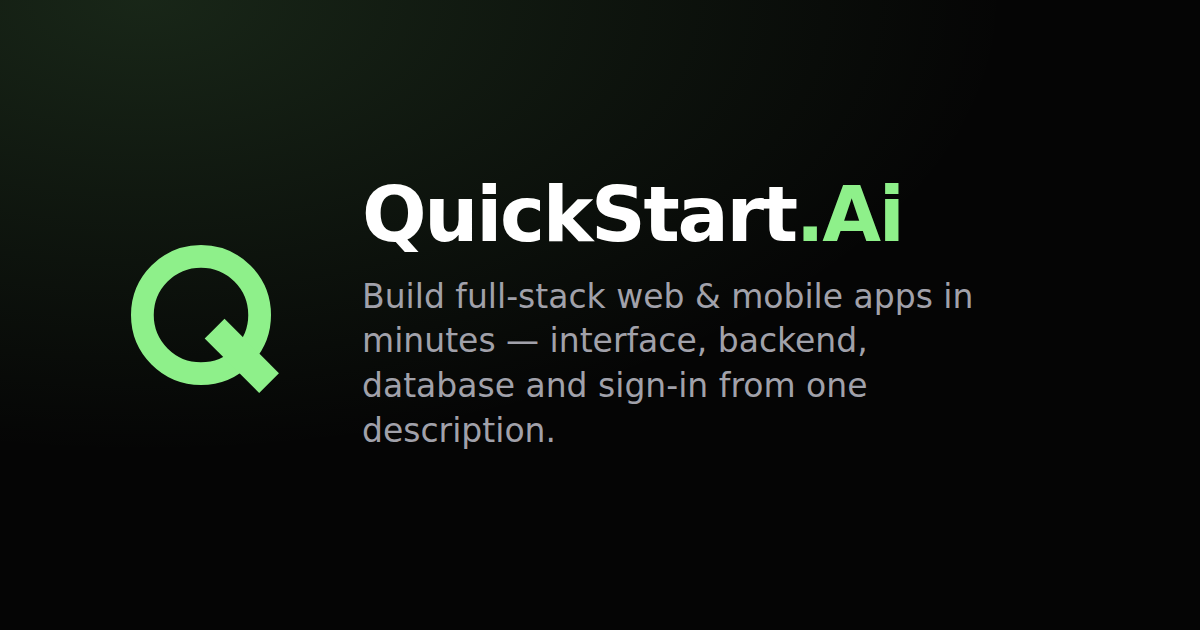
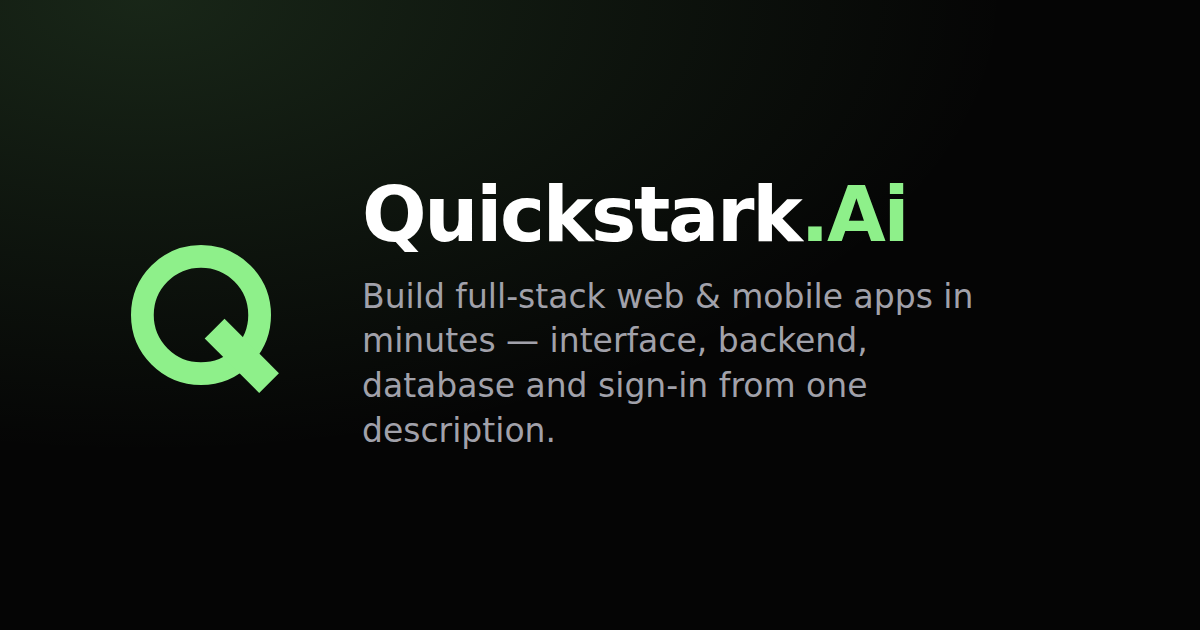
Rename the product to Quickstark.Ai
Every visible occurrence of the old name across the app, the marketing pages,
the metadata and the docs — the wordmark in the header, drawer, login modal and
dashboard nav, page titles, the FAQ and pricing copy, alt text and aria-labels,
the manifest, Open Graph and Twitter tags, the schema header and the README.

Two things deliberately left alone. The CSS class .wordmark-quickstart keeps its
name: it is a selector, not a word anyone reads, and renaming it would mean
editing the stylesheet. And the rename was done case-sensitively, so that class
and the domain strings could not be swept up by accident.

The publishing subdomain did change — .quickstart.ai to .quickstark.ai in the
plan table — since it carries the brand and is printed in the Free plan's
feature list. That is a domain that now has to exist.

The social preview image had the old name rendered into its pixels, so it was
regenerated from the same source rather than left to contradict the page it
previews.

Verified against the running server: the landing and pricing pages serve zero
occurrences of the old name, the title, og:title, og:site_name, application-name
and manifest all read Quickstark.Ai, and the wordmark renders in both places
that draw it.

Changed region(s): [[0.4933, 0.2714, 0.7708, 0.3921]]

diff --git a/src/app/page.tsx b/src/app/page.tsx
@@ -196,7 +196,7 @@ function formatPrice(value: number) {
 const PRICING_TIERS = [
   {
     name: "Free",
-    description: "A simple starting point to explore QuickStart.Ai and validate your first product ideas.",
+    description: "A simple starting point to explore Quickstark.Ai and validate your first product ideas.",
     monthlyPrice: PLANS.free.monthlyPriceUsd,
     ctaLabel: "Get Started",
     icon: Gift,
@@ -211,7 +211,7 @@ const PRICING_TIERS = [
     name: "Standard",
     description: "The most balanced plan for serious builders shipping polished web and mobile experiences.",
     monthlyPrice: PLANS.standard.monthlyPriceUsd,
-    ctaLabel: "Try QuickStart.Ai",
+    ctaLabel: "Try Quickstark.Ai",
     icon: Layout,
     highlight: true,
     features: [
@@ -248,9 +248,9 @@ const FAQS = [
       "A product that runs, not a mockup or a pile of screens to hand off. You get the pages people use, the database behind them, sign-in already wired up and real code underneath — live on a URL you can share the same day, and still yours to keep changing.",
   },
   {
-    question: "What is QuickStart.Ai and how does it work?",
+    question: "What is Quickstark.Ai and how does it work?",
     answer:
-      "Describe the product you want in plain language and QuickStart.Ai builds it — the screens people see, the backend behind them, the database underneath and the sign-in flow, ready to go live. Web and mobile come out of the same description.",
+      "Describe the product you want in plain language and Quickstark.Ai builds it — the screens people see, the backend behind them, the database underneath and the sign-in flow, ready to go live. Web and mobile come out of the same description.",
   },
   {
     question: "What can I build with it?",
@@ -258,9 +258,9 @@ const FAQS = [
       "Anything with a front end and something running behind it: customer-facing web and mobile apps, dashboards, marketplaces, booking and subscription products, internal tools. If it needs pages, accounts, data and payments, it is in range.",
   },
   {
-    question: "Do I need coding experience to use QuickStart.Ai?",
+    question: "Do I need coding experience to use Quickstark.Ai?",
     answer:
-      "No. You describe what you want in ordinary words and QuickStart.Ai does the building. What it writes underneath is real Next.js and React code, so if you bring in a developer later there is something familiar for them to pick up.",
+      "No. You describe what you want in ordinary words and Quickstark.Ai does the building. What it writes underneath is real Next.js and React code, so if you bring in a developer later there is something familiar for them to pick up.",
   },
   {
     question: "Where does my data live, and what does it connect to?",
@@ -307,7 +307,7 @@ const FOOTER_LINK_COLUMNS = [
 
 /* Six applications float around the hero — a restaurant landing page, two storefronts, a
    product page, a banking app and a food-ordering app — so the first thing a visitor sees
-   is the range of things QuickStart.Ai builds. Each entry is a screenshot of a real UI,
+   is the range of things Quickstark.Ai builds. Each entry is a screenshot of a real UI,
    rendered from the mockups in tools/hero-mockups (re-run
    `node tools/hero-mockups/render.mjs` after editing one).
 
@@ -717,9 +717,9 @@ export default function LandingPage() {
               the CTA are, and the always-present third column reserves the CTA's space so
               the nav does not jump sideways when the button mounts on scroll. */}
           <div className="page-shell h-20 grid grid-cols-[1fr_auto_1fr] items-center gap-4">
-            <a href="#" className="justify-self-start -ml-2 flex items-center gap-3 group focus:outline-none focus-visible:ring-2 focus-visible:ring-brandGreen/40 rounded-full px-2" aria-label="QuickStart.Ai Homepage">
+            <a href="#" className="justify-self-start -ml-2 flex items-center gap-3 group focus:outline-none focus-visible:ring-2 focus-visible:ring-brandGreen/40 rounded-full px-2" aria-label="Quickstark.Ai Homepage">
               <div className="w-10 h-10 relative overflow-hidden flex items-center justify-center"><Q3DCanvas scale={0.85} className="w-10 h-10 absolute pointer-events-none" /></div>
-              <span className="text-xl font-bold tracking-tight"><span className="wordmark-quickstart metal-shimmer">QuickStart</span><span className="wordmark-ai">.Ai</span></span>
+              <span className="text-xl font-bold tracking-tight"><span className="wordmark-quickstart metal-shimmer">Quickstark</span><span className="wordmark-ai">.Ai</span></span>
             </a>
             <nav className="hidden md:flex justify-self-center items-center gap-8 text-sm font-medium text-brandTextSec">
               <a href="#features" className="hover:text-white transition-colors duration-200">Features</a>
@@ -855,9 +855,9 @@ export default function LandingPage() {
         <section id="features" className="px-6 py-24">
           <div className="page-shell space-y-12">
             <Reveal className="mx-auto max-w-3xl text-center">
-              <p className="text-sm font-semibold uppercase tracking-[0.28em] text-brandGreen">What is QuickStart.Ai</p>
+              <p className="text-sm font-semibold uppercase tracking-[0.28em] text-brandGreen">What is Quickstark.Ai</p>
               <h2 className="mt-4 text-2xl md:text-3xl 2xl:text-4xl 3xl:text-5xl font-bold tracking-tight text-white">
-                What can QuickStart.Ai do for you?
+                What can Quickstark.Ai do for you?
               </h2>
               <p className="mt-5 text-base sm:text-lg leading-relaxed text-brandTextSec">
                 Instantly generate native mobile applications, progressive web apps, production APIs, schema-perfect databases, authentication architectures, AI agents, secure cloud storage, and fully automated deployment configurations using simple natural language.
@@ -937,7 +937,7 @@ export default function LandingPage() {
                   Choose the plan that fits your build velocity.
                 </h2>
                 <p className="mt-5 text-base sm:text-lg leading-relaxed text-brandTextSec">
-                  Dark, cinematic, and built to scale with the same QuickStart.Ai product experience you see above.
+                  Dark, cinematic, and built to scale with the same Quickstark.Ai product experience you see above.
                 </p>
               </div>
 
@@ -1078,7 +1078,7 @@ export default function LandingPage() {
                 Questions people ask before they build.
               </h2>
               <p className="mt-5 text-base sm:text-lg leading-relaxed text-brandTextSec">
-                What QuickStart.Ai builds for you, what it connects to, and what it costs — answered in plain words.
+                What Quickstark.Ai builds for you, what it connects to, and what it costs — answered in plain words.
               </p>
             </Reveal>
 
@@ -1139,7 +1139,7 @@ export default function LandingPage() {
             <div className="absolute left-1/2 top-1/2 h-full aspect-[1672/941] -translate-x-1/2 -translate-y-1/2">
               <Image
                 src="/page.png"
-                alt="Start building on QuickStart.Ai today — turn your ideas into fully functional apps, faster than ever."
+                alt="Start building on Quickstark.Ai today — turn your ideas into fully functional apps, faster than ever."
                 width={1672}
                 height={941}
                 sizes="(min-width: 640px) 100vw, 178vw"
@@ -1162,12 +1162,12 @@ export default function LandingPage() {
       <footer className="relative z-10 border-t border-brandBorder px-6 py-14">
         <div className="page-shell flex flex-col gap-x-8 gap-y-12 xl:flex-row xl:items-start xl:justify-between">
           <Reveal className="max-w-sm xl:max-w-xs">
-            <a href="#" className="inline-flex items-center gap-3 rounded-full focus:outline-none focus-visible:ring-2 focus-visible:ring-brandGreen/40" aria-label="QuickStart.Ai Homepage">
+            <a href="#" className="inline-flex items-center gap-3 rounded-full focus:outline-none focus-visible:ring-2 focus-visible:ring-brandGreen/40" aria-label="Quickstark.Ai Homepage">
               <div className="relative flex h-10 w-10 items-center justify-center overflow-hidden">
                 <Q3DCanvas scale={0.8} className="absolute h-10 w-10 pointer-events-none" />
               </div>
               <span className="text-xl font-bold tracking-tight">
-                <span className="wordmark-quickstart">QuickStart</span><span className="wordmark-ai">.Ai</span>
+                <span className="wordmark-quickstart">Quickstark</span><span className="wordmark-ai">.Ai</span>
               </span>
             </a>
             <p className="mt-5 text-sm leading-relaxed text-brandTextSec">

diff --git a/src/app/layout.tsx b/src/app/layout.tsx
@@ -24,12 +24,12 @@ const siteUrl =
 export const metadata: Metadata = {
   metadataBase: new URL(siteUrl),
   title: {
-    default: "QuickStart.Ai | Build Full-Stack Applications Instantly",
-    template: "%s | QuickStart.Ai",
+    default: "Quickstark.Ai | Build Full-Stack Applications Instantly",
+    template: "%s | Quickstark.Ai",
   },
   description:
-    "Describe your product in plain language and QuickStart.Ai builds it — the interface, the backend, the database and sign-in, live on a URL the same day.",
-  applicationName: "QuickStart.Ai",
+    "Describe your product in plain language and Quickstark.Ai builds it — the interface, the backend, the database and sign-in, live on a URL the same day.",
+  applicationName: "Quickstark.Ai",
   keywords: [
     "AI app builder",
     "full-stack app generator",
@@ -56,17 +56,17 @@ export const metadata: Metadata = {
   manifest: "/manifest.webmanifest",
   openGraph: {
     type: "website",
-    siteName: "QuickStart.Ai",
+    siteName: "Quickstark.Ai",
     url: siteUrl,
-    title: "QuickStart.Ai | Build Full-Stack Applications Instantly",
+    title: "Quickstark.Ai | Build Full-Stack Applications Instantly",
     description:
-      "Describe your product in plain language and QuickStart.Ai builds it — interface, backend, database and sign-in, live on a URL the same day.",
+      "Describe your product in plain language and Quickstark.Ai builds it — interface, backend, database and sign-in, live on a URL the same day.",
   },
   twitter: {
     card: "summary_large_image",
-    title: "QuickStart.Ai | Build Full-Stack Applications Instantly",
+    title: "Quickstark.Ai | Build Full-Stack Applications Instantly",
     description:
-      "Describe your product in plain language and QuickStart.Ai builds it — interface, backend, database and sign-in, live on a URL the same day.",
+      "Describe your product in plain language and Quickstark.Ai builds it — interface, backend, database and sign-in, live on a URL the same day.",
   },
   /* A favicon only reaches a search result once the page is indexed. */
   robots: {

diff --git a/src/app/dashboard/components/AccountSettingsModal.tsx b/src/app/dashboard/components/AccountSettingsModal.tsx
@@ -25,7 +25,7 @@ const SECTION_META: Record<SectionId, { title: string; subtitle?: string }> = {
   account: { title: "Account settings" },
   key: { title: "Universal Key", subtitle: "Bring your own model key" },
   agents: { title: "Manage Agents", subtitle: "Create, edit and manage your custom agents" },
-  preferences: { title: "Preferences", subtitle: "Customize how QuickStart.Ai works for you" },
+  preferences: { title: "Preferences", subtitle: "Customize how Quickstark.Ai works for you" },
   plans: { title: "Plans & Invoices", subtitle: "Manage your plan and view transaction history" },
   credits: { title: "Credit Usage", subtitle: "Track your credit usage and history" },
 };
@@ -858,7 +858,7 @@ export default function AccountSettingsModal({ open, onClose, onUpgradeClick, cr
                               <button
                                 disabled={!active}
                                 aria-pressed={active}
-                                title={active ? undefined : "QuickStart.Ai is dark-only for now"}
+                                title={active ? undefined : "Quickstark.Ai is dark-only for now"}
                                 className={`flex h-[74px] w-full items-center justify-center rounded-lg border-2 transition-colors ${
                                   active
                                     ? "border-[#4A90E2] bg-[#141417]"
@@ -884,7 +884,7 @@ export default function AccountSettingsModal({ open, onClose, onUpgradeClick, cr
                       )}
                     </div>
                     <p className="mt-3 text-[13px] text-[#8F939A]">
-                      QuickStart.Ai is dark-only for now, so the other themes are not selectable yet.
+                      Quickstark.Ai is dark-only for now, so the other themes are not selectable yet.
                     </p>
                   </div>
                 )}

diff --git a/src/app/dashboard/components/SupportChat.tsx b/src/app/dashboard/components/SupportChat.tsx
@@ -103,7 +103,7 @@ export default function SupportChat() {
               </div>
               <div className="min-w-0 flex-1">
                 <p className="truncate text-sm font-semibold leading-tight text-white">
-                  QuickStart Support
+                  Quickstark Support
                 </p>
                 <p className="truncate text-xs leading-tight text-[#8F939A]">
                   The team can also help
@@ -129,7 +129,7 @@ export default function SupportChat() {
                     <div className="max-w-[85%] rounded-[16px] rounded-tl-[6px] bg-white/[0.06] px-3.5 py-2.5">
                       <p className="whitespace-pre-line text-sm leading-relaxed text-white">{message.text}</p>
                     </div>
-                    <p className="mt-1.5 text-[11px] text-[#8F939A]">QuickStart Support · Just now</p>
+                    <p className="mt-1.5 text-[11px] text-[#8F939A]">Quickstark Support · Just now</p>
                   </div>
                 ) : (
                   <div key={message.id} className="flex justify-end">
@@ -200,7 +200,7 @@ export default function SupportChat() {
                   </button>
                 </div>
               </form>
-              <p className="py-2 text-center text-[11px] text-[#8F939A]">Powered by QuickStart.Ai</p>
+              <p className="py-2 text-center text-[11px] text-[#8F939A]">Powered by Quickstark.Ai</p>
             </div>
           </motion.div>
         )}

diff --git a/src/app/dashboard/components/Sidebar.tsx b/src/app/dashboard/components/Sidebar.tsx
@@ -139,7 +139,7 @@ export default function Sidebar({
                which is what made scrolling feel heavy. */
             className="fixed top-0 left-0 z-50 flex h-[100dvh] w-[min(300px,84vw)] flex-col overflow-hidden overscroll-contain border-r border-white/[0.09] bg-[rgba(10,10,12,0.97)] p-4 pt-[max(16px,env(safe-area-inset-top))] pb-[max(16px,env(safe-area-inset-bottom))] shadow-[inset_0_1px_0_rgba(255,255,255,0.06),18px_0_60px_rgba(0,0,0,0.55)] md:hidden"
           >
-            {/* Header: 3D Canvas Logo & QuickStart.Ai Brand */}
+            {/* Header: 3D Canvas Logo & Quickstark.Ai Brand */}
             <div className="mb-5 flex shrink-0 items-center justify-between">
               <div className="flex min-w-0 items-center gap-2.5">
                 {/* The size has to be given to the canvas itself — the component passes
@@ -149,7 +149,7 @@ export default function Sidebar({
                   <Q3DCanvas scale={0.65} className="h-9 w-9" />
                 </div>
                 <span className="text-lg font-bold tracking-tight text-white">
-                  QuickStart<span className="text-[#34F5A0]">.Ai</span>
+                  Quickstark<span className="text-[#34F5A0]">.Ai</span>
                 </span>
               </div>
 

diff --git a/src/app/dashboard/credits.ts b/src/app/dashboard/credits.ts
@@ -60,14 +60,14 @@ export const PLANS: Record<PlanId, Plan> = {
     /* Daily credits are explicitly non-rolling: an unused day is gone. */
     rolloverCycles: 0,
     publishing: {
-      subdomain: ".quickstart.ai",
+      subdomain: ".quickstark.ai",
       customDomains: false,
       privateRepos: false,
     },
     support: "Standard community support",
     features: [
       `${DAILY_ALLOWANCE} daily build credits`,
-      "Publish to a quickstart.ai subdomain",
+      "Publish to a quickstark.ai subdomain",
       "Unlimited sandbox iteration",
       "Standard community support",
     ],
@@ -80,7 +80,7 @@ export const PLANS: Record<PlanId, Plan> = {
     monthlyCredits: 100,
     rolloverCycles: 1,
     publishing: {
-      subdomain: ".quickstart.ai",
+      subdomain: ".quickstark.ai",
       customDomains: true,
       privateRepos: true,
     },
@@ -104,7 +104,7 @@ export const PLANS: Record<PlanId, Plan> = {
     monthlyCredits: 600,
     rolloverCycles: 1,
     publishing: {
-      subdomain: ".quickstart.ai",
+      subdomain: ".quickstark.ai",
       customDomains: true,
       privateRepos: true,
     },

diff --git a/src/app/dashboard/components/TopNav.tsx b/src/app/dashboard/components/TopNav.tsx
@@ -118,12 +118,12 @@ export default function TopNav({ onUpgradeClick, onAccountSettingsClick, project
       <div className="mx-auto flex h-full w-full items-center justify-between px-4 sm:px-6">
         {/* Brand */}
         <div className="flex min-w-0 items-center gap-2 sm:gap-4">
-          <a href="/dashboard" className="flex shrink-0 items-center gap-2" aria-label="QuickStart.Ai dashboard">
+          <a href="/dashboard" className="flex shrink-0 items-center gap-2" aria-label="Quickstark.Ai dashboard">
             <span className="flex h-7 w-7 items-center justify-center overflow-hidden">
               <Q3DCanvas scale={0.55} />
             </span>
             <span className="whitespace-nowrap text-[15px] font-bold tracking-tight text-white">
-              QuickStart<span className="text-[#34F5A0]">.Ai</span>
+              Quickstark<span className="text-[#34F5A0]">.Ai</span>
             </span>
           </a>
 

diff --git a/src/app/LoginModal.tsx b/src/app/LoginModal.tsx
@@ -183,7 +183,7 @@ export default function LoginModal({ isOpen, onClose, onProviderAuth, onEmailSig
   const heading = (
     <div className="flex flex-col items-center gap-1">
       <p className="text-xs font-semibold uppercase tracking-[0.2em]">
-        <span className="wordmark-quickstart">QuickStart</span><span className="wordmark-ai">.Ai</span>
+        <span className="wordmark-quickstart">Quickstark</span><span className="wordmark-ai">.Ai</span>
       </p>
       <h2 className="whitespace-nowrap text-center text-[clamp(1.2rem,5vw,2.4rem)] font-bold leading-[1.15] tracking-tight">
         <span className="metal-shimmer">Build Full-Stack</span>

diff --git a/src/app/dashboard/components/billing/BillingModal.tsx b/src/app/dashboard/components/billing/BillingModal.tsx
@@ -57,7 +57,7 @@ export default function BillingModal({ open, onClose }: BillingModalProps) {
               {/* pr-14 keeps the headline clear of the close button, which it ran
                   underneath once the title wrapped to a second line. */}
               <h1 className="text-[28px] sm:text-[30px] font-bold text-white leading-[1.1] pr-14">
-                Try QuickStart.Ai for free
+                Try Quickstark.Ai for free
               </h1>
               <p className="text-[#9CA3AF] text-sm font-medium mt-2">
                 Choose your plan. Cancel anytime.

diff --git a/src/components/AddLogModal.jsx b/src/components/AddLogModal.jsx
@@ -75,7 +75,7 @@ export default function AddLogModal({ isOpen, onClose, onSave }) {
               <input 
                 type="text"
                 required
-                placeholder="e.g. QuickStart.Ai"
+                placeholder="e.g. Quickstark.Ai"
                 value={projectName}
                 onChange={(e) => setProjectName(e.target.value)}
                 className="w-full bg-gray-950 border border-gray-800 rounded-lg py-2 px-3 text-xs text-white focus:outline-none focus:border-indigo-500"

diff --git a/src/app/manifest.ts b/src/app/manifest.ts
@@ -4,8 +4,8 @@ import type { MetadataRoute } from "next";
    screen; without it the icon there falls back to a screenshot of the page. */
 export default function manifest(): MetadataRoute.Manifest {
   return {
-    name: "QuickStart.Ai",
-    short_name: "QuickStart.Ai",
+    name: "Quickstark.Ai",
+    short_name: "Quickstark.Ai",
     description:
       "Build full-stack web and mobile apps in minutes — interface, backend, database and sign-in from one description.",
     start_url: "/",

diff --git a/src/app/Hero.tsx b/src/app/Hero.tsx
@@ -21,7 +21,7 @@ export function Hero() {
         <div className="relative rounded-2xl overflow-hidden bg-slate-900">
           <img
             src="https://raw.githubusercontent.com/loveGlow1/V10/main/public/hero-showcase.png"
-            alt="QuickStart.Ai Platform Experience"
+            alt="Quickstark.Ai Platform Experience"
             className="w-full h-auto object-cover transform hover:scale-[1.01] transition-transform duration-500"
           />
         </div>
